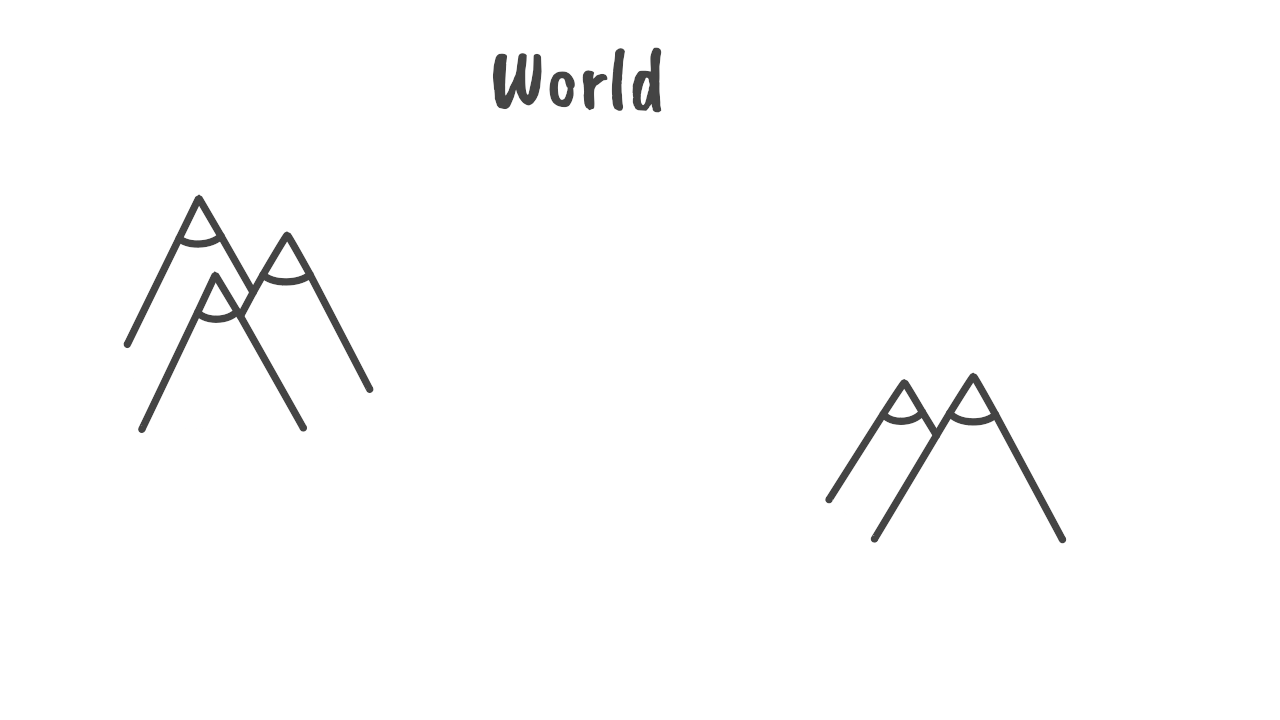
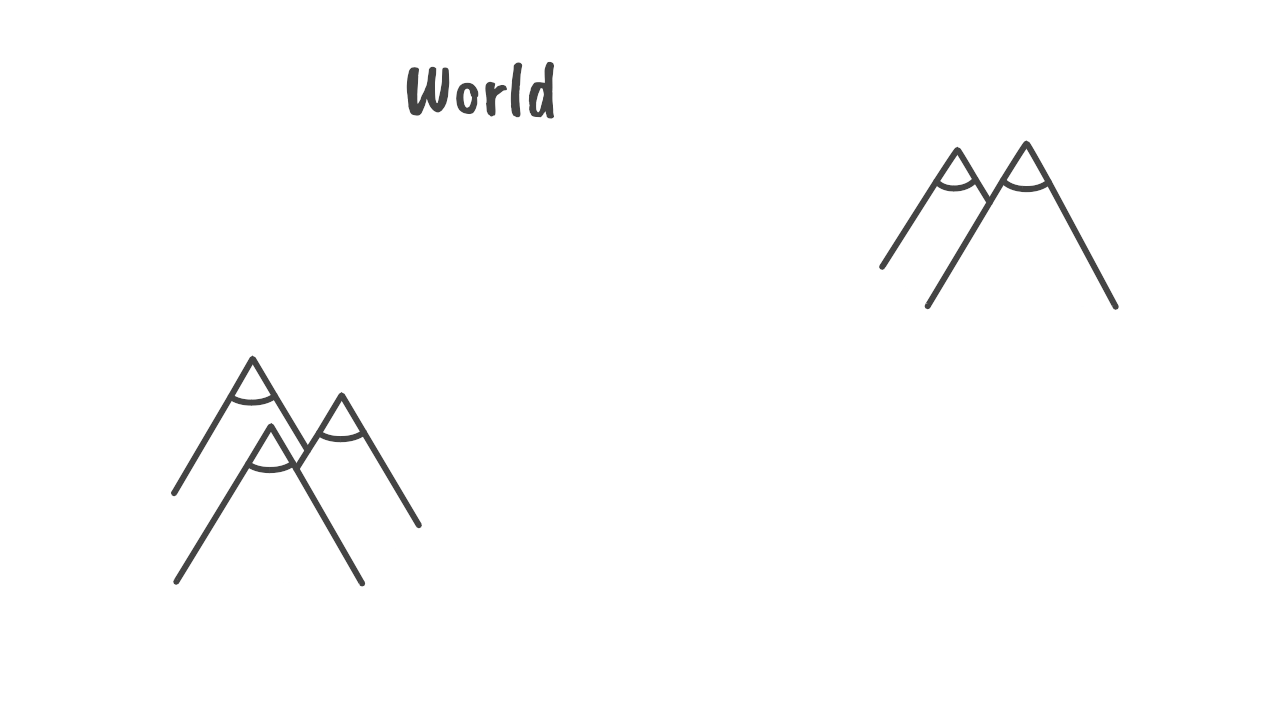
world x scenery

diff --git a/src/levels/world1b.js b/src/levels/world1b.js
@@ -1,7 +1,7 @@
 export const world1b = {
-    '1-1b': {
-        x: 1380,
-        y: 820,
+    'X-1': {
+        x: 2330,
+        y: 890,
         layout: [
             '           ',
             '   10101   ',
@@ -11,11 +11,11 @@ export const world1b = {
             '   10101   ',
             '           '
         ],
-        unlocks: ['1-2b']
+        unlocks: ['X-2']
     },
-    '1-2b': {
-        x: 1580,
-        y: 820,
+    'X-2': {
+        x: 2050,
+        y: 940,
         layout: [
             '          ',
             '          ',
@@ -25,11 +25,11 @@ export const world1b = {
             '          ',
             '          '
         ],
-        unlocks: ['1-3b']
+        unlocks: ['X-3']
     },
-    '1-3b': {
-        x: 1780,
-        y: 820,
+    'X-3': {
+        x: 1950,
+        y: 1100,
         layout: [
             '           ',
             '           ',
@@ -38,11 +38,11 @@ export const world1b = {
             '           ',
             '           '
         ],
-        unlocks: ['1-4b']
+        unlocks: ['X-4']
     },
-    '1-4b': {
-        x: 1980,
-        y: 820,
+    'X-4': {
+        x: 1700,
+        y: 1170,
         layout: [
             '           ',
             '           ',
@@ -52,11 +52,11 @@ export const world1b = {
             '           ',
             '           '
         ],
-        unlocks: ['1-5b']
+        unlocks: ['X-5']
     },
-    '1-5b': {
-        x: 2180,
-        y: 820,
+    'X-5': {
+        x: 1440,
+        y: 1170,
         layout: [
             '          ',
             '    01    ',

diff --git a/src/levels/world1.js b/src/levels/world1.js
@@ -1,7 +1,7 @@
 export const world1 = {
     '1-1': {
         x: 1440,
-        y: 580,
+        y: 270,
         layout: [
             '           ',
             '   00000   ',
@@ -15,7 +15,7 @@ export const world1 = {
     },
     '1-2': {
         x: 1700,
-        y: 540,
+        y: 270,
         layout: [
             '          ',
             '          ',
@@ -28,8 +28,8 @@ export const world1 = {
         unlocks: ['1-3']
     },
     '1-3': {
-        x: 1840,
-        y: 320,
+        x: 1950,
+        y: 340,
         layout: [
             '           ',
             '           ',
@@ -42,7 +42,7 @@ export const world1 = {
     },
     '1-4': {
         x: 2050,
-        y: 430,
+        y: 500,
         layout: [
             '           ',
             '           ',
@@ -55,8 +55,8 @@ export const world1 = {
         unlocks: ['1-5']
     },
     '1-5': {
-        x: 2430, // 2436.5744203440536 514.5744680851063
-        y: 510,
+        x: 2330, // 2436.5744203440536 514.5744680851063
+        y: 550,
         layout: [
             '          ',
             '    00    ',
@@ -66,6 +66,6 @@ export const world1 = {
             '   N01X   ',
             '          ',
         ],
-        unlocks: ['1-1b', '2-1']
+        unlocks: ['X-1', '2-1']
     }
 }

diff --git a/src/states/menu.js b/src/states/menu.js
@@ -16,8 +16,8 @@ export class MenuState extends Phaser.State {
 		game.camera.y = game.menuY;
 
 		game.world1arrows = [
-			new MenuArrow(2450, 300, 2560, 0, 180, game.levels['1-5'].completed),
-			new MenuArrow(2250, 600, 1280, 720, 270, game.levels['1-5'].completed)
+			new MenuArrow(2400, 420, 2560, 0, 180, game.levels['1-5'].completed),
+			new MenuArrow(2200, 630, 1280, 720, 270, game.levels['1-5'].completed)
 		];
 		game.world2arrows = [
 			new MenuArrow(3680, 300, 3840, 0, 180, game.levels['2-5'].completed),
@@ -33,7 +33,8 @@ export class MenuState extends Phaser.State {
 			game.add.image(350, 50, 'logo'),
 			game.add.image(520, 550, 'credits'),
 			game.add.image(1280, 0, 'world1'),
-			new Number(2010, 80, '1')
+			new Number(1900, 90, '1'),
+			game.add.image(1280, 720, 'worldx'),
 		];
 
 
@@ -54,8 +55,8 @@ export class MenuState extends Phaser.State {
 				game.curtain.transition('main');
 			}, this),
 
-			new MenuArrow(1400, 100, 0, 0, 0, true),	
-			new MenuArrow(2400, 850, 1280, 0, 90, true),
+			new MenuArrow(1400, 130, 0, 0, 0, true),	
+			new MenuArrow(2450, 850, 1280, 0, 90, true),
 
 			new MenuArrow(2680, 300, 1280, 0, 0, true),
 			new MenuArrow(3680, 850, 2560, 0, 90, true),

diff --git a/src/states/load.js b/src/states/load.js
@@ -40,6 +40,7 @@ export class LoadState extends Phaser.State {
 		game.load.image('undo', 'img/undo.png');
 		game.load.image('exit', 'img/exit.png');
 		game.load.image('world1', 'img/menu/world1.png');
+		game.load.image('worldx', 'img/menu/worldx.png');
 
 		game.load.bitmapFont('handwriting', 'font/hw5.png', 'font/hw5.fnt');
 	}
@@ -79,6 +80,14 @@ export class LoadState extends Phaser.State {
 					completed: true
 				},
 				'1-5': {
+					unlocked: true,
+					completed: true
+				},
+				'2-1': {
+					unlocked: true,
+					completed: false
+				},
+				'X-1': {
 					unlocked: true,
 					completed: false
 				}

diff --git a/src/levels/world2.js b/src/levels/world2.js
@@ -1,7 +1,7 @@
 export const world2 = {
     '2-1': {
-        x: 2660,
-        y: 100,
+        x: 2760,
+        y: 500,
         layout: [
             '          ',
             '          ',
